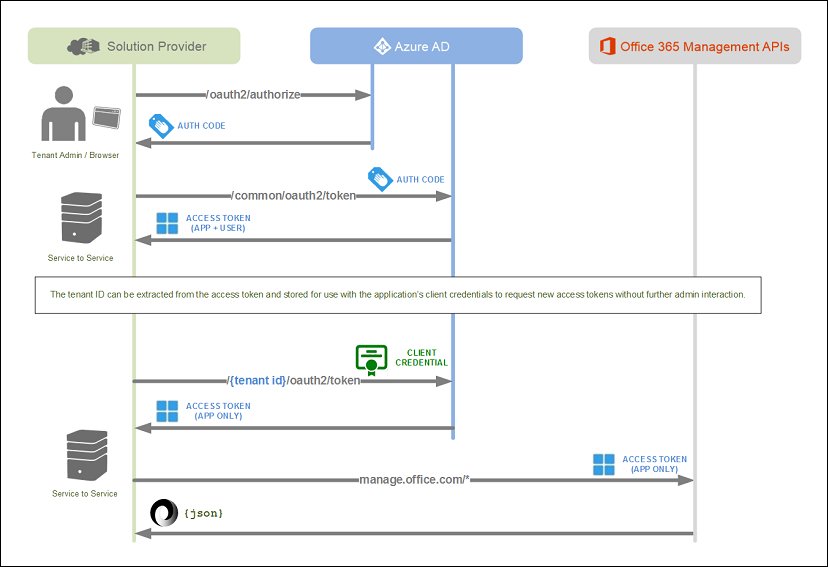
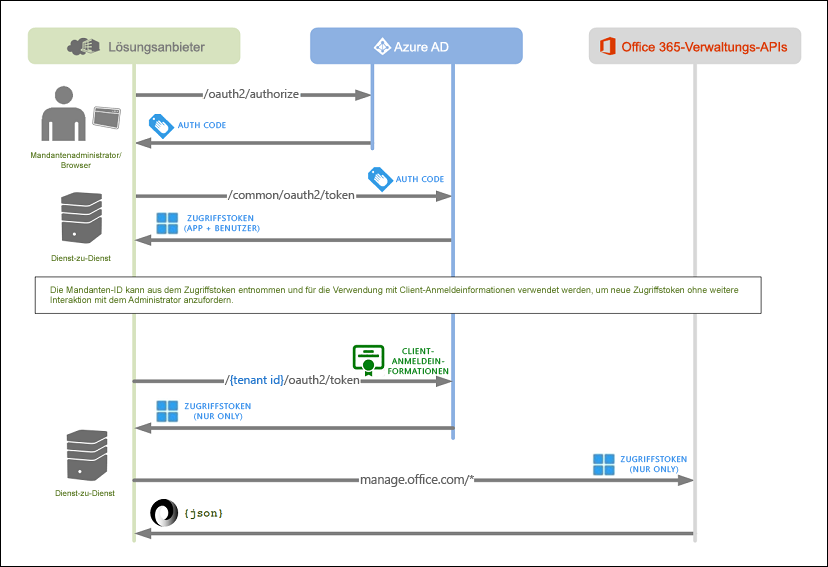
commit translated contents

diff --git a/office-365-management-api/office-365-service-communications-api-reference.md b/office-365-management-api/office-365-service-communications-api-reference.md
@@ -6,12 +6,12 @@ ms.ContentId: d0b9341a-b205-5442-1c20-8fb56407351d
 ms.topic: reference (API)
 ms.date: ''
 localization_priority: Priority
-ms.openlocfilehash: 6b42efe72931875592c87e78aa9c9cdce11a339b
-ms.sourcegitcommit: f823233a1ab116bc83d7ca8cd8ad7c7ea59439fc
+ms.openlocfilehash: 986298b87e2583788dca9b11f288743ce5f96b60
+ms.sourcegitcommit: 784b581a699c6d0ab7939ea621d5ecbea71925ea
 ms.translationtype: HT
 ms.contentlocale: de-DE
-ms.lasthandoff: 07/15/2019
-ms.locfileid: "35688172"
+ms.lasthandoff: 07/29/2019
+ms.locfileid: "35924812"
 ---
 # <a name="office-365-service-communications-api-reference-preview"></a>Office 365-Dienstkommunikations-API – Referenz (Vorschau)
 
@@ -46,7 +46,7 @@ Alle API-Anforderungen erfordern einen HTTP-Header für die Autorisierung mit ei
 Authorization: Bearer {OAuth2 token}
 ```
 
-**Anforderungsheader**
+### <a name="request-headers"></a>Anforderungsheader
 
 Dies sind die unterstützten Anforderungsheader für alle Office 365-Dienstkommunikations-API-Operationen.
 
@@ -58,7 +58,7 @@ Dies sind die unterstützten Anforderungsheader für alle Office 365-Dienstkommu
 
 <br/>
 
-**Antwortheader**
+### <a name="response-headers"></a>Antwortheader
 
 Dies sind die Antwortheader für alle Office 365-Dienstkommunikations-API-Operationen:
 
@@ -95,7 +95,7 @@ Gibt die Liste der abonnierten Dienste zurück.
 |**Response**|Liste der „Service“-Entitäten|„Service"-Entität enthält „Id“ (Zeichenfolge), „DisplayName“ (Zeichenfolge) und „FeatureNames“ (Liste mit Zeichenfolgen).|
 ||||
 
-#### <a name="sample-request"></a>Beispielanfrage
+### <a name="sample-request"></a>Beispielanfrage
 
 ```json
 GET https://manage.office.com/api/v1.0/contoso.com/ServiceComms/Services 
@@ -103,7 +103,7 @@ Authorization: Bearer {AAD_Bearer_JWT_Token}
 
 ```
 
-#### <a name="sample-response"></a>Beispielantwort
+### <a name="sample-response"></a>Beispielantwort
 
 ```json
 {
@@ -145,7 +145,9 @@ Authorization: Bearer {AAD_Bearer_JWT_Token}
 Gibt den Status des Diensts während der vorherigen 24 Stunden zurück.
 
 > [!NOTE] 
-> Die Dienstantwort enthält den Status und alle Vorkommnisse innerhalb der letzten 24 Stunden. Der zurückgegebene StatusDate- oder StatusTime-Wert liegt genau 24 Stunden in der Vergangenheit, sofern kein aktuellerer Status verfügbar ist. Falls ein Dienst innerhalb der letzten 24 Stunden eine Statusaktualisierung erhalten hat, wird stattdessen der Zeitpunkt des neuesten Updates zurückgegeben.
+> Die Dienstantwort enthält den Status und alle Vorkommnisse innerhalb der letzten 24 Stunden. Der zurückgegebene StatusDate- oder StatusTime-Wert liegt genau 24 Stunden in der Vergangenheit. Wenn Sie die letzte Aktualisierung für einen bestimmten Incident abrufen möchten, verwenden Sie die Funktion zum Abrufen von Nachrichten, und lesen Sie den LastUpdatedTime-Wert aus dem Antwortdatensatz, der ihrer Incident-ID entspricht. <br/>
+
+<br/>
 
 ||Dienst|Beschreibung|
 |:-----|:-----|:-----|
@@ -155,14 +157,14 @@ Gibt den Status des Diensts während der vorherigen 24 Stunden zurück.
 |**Response**|Liste der „WorkloadStatus“-Entitäten.|„WorkloadStatus“-Entität enthält „Id“ (Zeichenfolge), „Workload“ (Zeichenfolge), „StatusTime“ (DateTimeOffset), „WorkloadDisplayName“ (Zeichenfolge), „Status“ (Zeichenfolge), „IncidentIds“ (Liste mit Zeichenfolgen) und „FeatureGroupStatusCollection“ (Liste mit „FeatureStatus“).<br/><br/>„FeatureStatus“-Entität enthält „Feature“ (Zeichenfolge), „FeatureGroupDisplayName“ (Zeichenfolge) und „FeatureStatus“ (Zeichenfolge).|
 ||||
 
-#### <a name="sample-request"></a>Beispielanfrage
+### <a name="sample-request"></a>Beispielanfrage
 
 ```json
 GET https://manage.office.com/api/v1.0/contoso.com/ServiceComms/CurrentStatus
 Authorization: Bearer {AAD_Bearer_JWT_Token}
 ```
 
-#### <a name="sample-response"></a>Beispielantwort
+### <a name="sample-response"></a>Beispielantwort
 
 ```json
 {
@@ -265,22 +267,23 @@ Authorization: Bearer {AAD_Bearer_JWT_Token}
     ]
 }
 ```
-#### <a name="status-definitions"></a>Statusdefinitionen
 
-|**Status**|**Definition**|
-|:-----|:-----|
-|**Wird untersucht** | Uns ist ein potenzielles Problem bekannt, und wir sammeln weitere Informationen dazu, was vor sich geht und welche Auswirkungen es hat. |
-|**ServiceDegradation** | Wir haben bestätigt, dass ein Problem vorliegt, das eine Auswirkung auf die Verwendung eines Diensts oder Features haben kann. Dieser Status wird möglicherweise angezeigt, wenn ein Dienst langsamer als gewöhnlich ausgeführt wird, zeitweilige Unterbrechungen auftreten oder ein Feature nicht funktioniert. |
-|**ServiceInterruption** | Dieser Status wird angezeigt, wenn wir feststellen, dass sich ein Problem auf den Zugriff der Benutzer auf den Dienst auswirkt. In diesem Fall ist das Problem schwerwiegend und kann konsistent reproduziert werden. |
-|**RestoringService** | Die Ursache des Problems wurde erkannt, wir wissen, welche Behebungsmaßnahme zu ergreifen ist, und sind dabei, den Dienst wieder in einen fehlerfreien Zustand zu versetzen. |
-|**ExtendedRecovery** | Dieser Status gibt an, dass eine Behebungsmaßnahme durchgeführt wird, um den Dienst für die Mehrzahl der Benutzer wiederherzustellen, es dauert jedoch einige Zeit, bis alle betroffenen Systeme erreicht sind. Dieser Status wird möglicherweise auch angezeigt, wenn wir eine temporäre Korrektur vorgenommen haben, um die Auswirkungen zu verringern, während wir an der Bereitstellung einer dauerhaften Lösung arbeiten. |
-|**InvestigationSuspended** | Dieser Status wird angezeigt, wenn unsere detaillierte Untersuchung eines potenziellen Problems dazu führt, dass Kunden um Angabe zusätzlicher Informationen für eine weitere Untersuchung gebeten werden. Wenn Ihre Unterstützung erforderlich ist, informieren wir Sie, welche Daten oder Protokolle wir benötigen. |
-|**ServiceRestored** | Wir haben bestätigt, dass durch die Behebungsmaßnahme das zugrunde liegende Problem gelöst und der Dienst wieder in einen fehlerfreien Zustand versetzt wurde. Informationen zur Fehlerursache finden Sie unter den Problemdetails. |
-|**PostIncidentReportPublished** | Wir haben für ein bestimmtes Problem einen Beitrag veröffentlicht, der Informationen zu den Ursachen sowie nächste Schritte umfasst, um sicherzustellen, dass ein ähnliches Problem nicht wieder auftritt. |
-|||
+### <a name="status-definitions"></a>Statusdefinitionen
 
-> [!NOTE] 
-> Weitere Informationen zum Thema Office 365-Dienststatus finden Sie unter [Überprüfen des Office 365-Dienststatus](https://docs.microsoft.com/office365/enterprise/view-service-health).
+Die Statusdefinitionen umfassen die folgenden Werte: 
+
+- Wird untersucht
+- ServiceDegradation
+- ServiceInterruption 
+- RestoringService
+- ExtendedRecovery
+- ServiceRestored
+- PostIncidentReportPublished 
+- VerifyingService
+- ServiceOperational
+
+Eine aktuelle Liste mit Beschreibungen dieser Statusdefinitionen finden Sie unter [Überprüfen des Office 365-Dienststatus](https://docs.microsoft.com/office365/enterprise/view-service-health#status-definitions).
+
 
 ## <a name="get-historical-status"></a>Get Historical Status
 
@@ -295,14 +298,14 @@ Gibt den Verlaufsstatus des Dienstes nach Tag über einen bestimmten Zeitraum zu
 |**Response**|Liste der „WorkloadStatus“-Entitäten.|„WorkloadStatus“-Entität enthält „Id“ (Zeichenfolge), „Workload“ (Zeichenfolge), „StatusTime“ (DateTimeOffset), „WorkloadDisplayName“ (Zeichenfolge), „Status“ (Zeichenfolge), „IncidentIds“ (Liste mit Zeichenfolgen) und „FeatureGroupStatusCollection“ (Liste mit „FeatureStatus“).<br/><br/>„FeatureStatus“-Entität enthält „Feature“ (Zeichenfolge), „FeatureGroupDisplayName“ (Zeichenfolge) und „FeatureStatus“ (Zeichenfolge).|
 ||||
 
-#### <a name="sample-request"></a>Beispielanfrage
+### <a name="sample-request"></a>Beispielanfrage
 
 ```json
 GET https://manage.office.com/api/v1.0/contoso.com/ServiceComms/HistoricalStatus
 Authorization: Bearer {AAD_Bearer_JWT_Token}
 ```
 
-#### <a name="sample-response"></a>Beispielantwort
+### <a name="sample-response"></a>Beispielantwort
 
 ```json
 {
@@ -383,7 +386,6 @@ Authorization: Bearer {AAD_Bearer_JWT_Token}
 }
 ```
 
-
 ## <a name="get-messages"></a>Get Messages
 
 Gibt Nachrichten über den Dienst über einen bestimmten Zeitraum zurück. Verwenden Sie den Typfilter zum Filtern nach Nachrichten des Typs „Dienstincident“, „Geplante Wartung“ oder „Nachrichtencenter“.
@@ -402,14 +404,14 @@ Gibt Nachrichten über den Dienst über einen bestimmten Zeitraum zurück. Verwe
 |**Response**|Liste der „Message“-Entitäten.|Die „Message“-Entität enthält „Id“ (Zeichenfolge), „StartTime“ (DateTimeOffset), „EndTime“ (DateTimeOffset), „Status“ (Zeichenfolge), "Messages" (Liste mit „MessageHistory“-Entität), „LastUpdatedTime“ (DateTimeOffset), „Workload“ (String), „WorkloadDisplayName“ (String), „Feature“ (String), „FeatureDisplayName“ (String), „MessageType“ (Enum, Standard: alle).<br/><br/>„MessageHistory“-Entität enthält „PublishedTime“ (DateTimeOffset), „MessageText“ (Zeichenfolge).|
 ||||
 
-#### <a name="sample-request"></a>Beispielanfrage
+### <a name="sample-request"></a>Beispielanfrage
 
 ```json
 GET https://manage.office.com/api/v1.0/contoso.com/ServiceComms/Messages
 Authorization: Bearer {AAD_Bearer_JWT_Token}
 ```
 
-#### <a name="sample-response"></a>Beispielantwort
+### <a name="sample-response"></a>Beispielantwort
 
 ```json
 {
@@ -476,7 +478,6 @@ Wenn der Dienst einen Fehler feststellt, meldet er den Fehlerantwortcode an den 
 
 
 ```json
-
 { 
     "error":{ 
         "code":"AF5000.  An internal server error occurred.",

diff --git a/office-365-management-api/troubleshooting-the-office-365-management-activity-api.md b/office-365-management-api/troubleshooting-the-office-365-management-activity-api.md
@@ -6,12 +6,12 @@ ms.ContentId: 50822603-a1ec-a754-e7dc-67afe36bb1b0
 ms.topic: reference (API)
 ms.date: 09/05/2018
 localization_priority: Priority
-ms.openlocfilehash: ed84984dc3009d03e0bb7cacba16eafb687c93e0
-ms.sourcegitcommit: 5b1eaeb7f262b7b9f7ab30ccb9f10878814153ac
+ms.openlocfilehash: 35d90859056225a5ebcf547d88c05640699c5295
+ms.sourcegitcommit: 784b581a699c6d0ab7939ea621d5ecbea71925ea
 ms.translationtype: HT
 ms.contentlocale: de-DE
-ms.lasthandoff: 04/23/2019
-ms.locfileid: "32223952"
+ms.lasthandoff: 07/29/2019
+ms.locfileid: "35924819"
 ---
 # <a name="troubleshooting-the-office-365-management-activity-api"></a>Problembehandlung bei der Office 365-Verwaltungsaktivitäts-API
 
@@ -25,6 +25,10 @@ Die Verwaltungsaktivitäts-API sollte nicht mit der Office 365-Dienstkommunikati
 Obwohl sie relativ wenige Operationen und eine einfache REST-Schnittstelle aufweist, ist die Verwendung der Verwaltungsaktivitäts-API und der genaue Abruf der Daten oft unklar.  Jeder, der die Verwaltungsaktivitäts-API verwendet, sollte wissen, dass es keine Abfrage nach Ereignisspezifika gibt, wie Datum des Ereignisses, von welcher Websitesammlung ein Ereignis ausgelöst wurde oder Ereignistyp.  Stattdessen erstellen Sie Abonnements für spezielle Arbeitslasten (beispielsweise SharePoint oder Azure AD), und jedes Abonnement ist mandantenspezifisch.
 
 Dieser Artikel enthält eine Zusammenfassung der am häufigsten gestellten Fragen, die der Microsoft-Support zu dieser API erhält.  Wir zeigen eine Auswahl einfacher PowerShell-Skripts, mit denen Sie die gängigsten Fragen von Kunden beantworten oder eine benutzerdefinierte Lösung durch Demonstration der wichtigsten Operationen implementieren können.  Nicht alle Operationen sind in diesem Artikel beschrieben, aber sie sind alle unter [Office 365-Verwaltungsaktivitäts-API – Referenz](office-365-management-activity-api-reference.md) aufgelistet.
+
+## <a name="enabling-unified-audit-logging-in-office-365"></a>Aktivieren der einheitliche Überwachungsprotokollierung in Office 365
+
+Wenn Sie gerade eine App eingerichtet haben, die versucht, die Verwaltungsaktivitäts-API zu verwenden, und dies nicht funktioniert, stellen Sie sicher, dass Sie die einheitliche Überwachungsprotokollierung für Ihre Office 365-Organisation aktiviert haben. Dazu aktivieren Sie das Office 365-Überwachungsprotokoll. Weitere Anweisungen finden Sie unter [Aktivieren oder Deaktivieren der Office 365-Überwachungsprotokollsuche](https://docs.microsoft.com/office365/securitycompliance/turn-audit-log-search-on-or-off).
 
 ## <a name="questions-about-third-party-tools-and-clients"></a>Fragen zu Drittanbietertools und -clients
 

diff --git a/office-365-management-api/office-365-management-activity-api-reference.md b/office-365-management-api/office-365-management-activity-api-reference.md
@@ -6,12 +6,12 @@ ms.ContentId: 52749845-37f8-6076-7ea5-49d9a4055445
 ms.topic: reference (API)
 ms.date: 01/10/2018
 localization_priority: Priority
-ms.openlocfilehash: 727d4e0d58e11887c15188b62d7642be90c1ebc3
-ms.sourcegitcommit: efd3dcdb3d190ca7b0f22a671867f0aede5d46c2
+ms.openlocfilehash: d6cdef5f0445ef0fa551be3080d4ce28595a1e9f
+ms.sourcegitcommit: 784b581a699c6d0ab7939ea621d5ecbea71925ea
 ms.translationtype: HT
 ms.contentlocale: de-DE
-ms.lasthandoff: 06/25/2019
-ms.locfileid: "35226979"
+ms.lasthandoff: 07/29/2019
+ms.locfileid: "35924826"
 ---
 # <a name="office-365-management-activity-api-reference"></a>Office 365-Verwaltungsaktivitäts-API – Referenz
 
@@ -21,8 +21,10 @@ Sie können die Aktionen und Ereignisse aus den Office 365- und Microsoft Azure 
 
 Die Office 365-Verwaltungsaktivitäts-API ist ein REST-Webdienst, mit dem Sie Lösungen in einer beliebigen Sprache und mit jeder Hosting-Umgebung, die HTTPS- und X.509-Zertifikate unterstützt, entwickeln können. Die API basiert auf Azure AD und dem OAuth2-Protokoll für Authentifizierung und Autorisierung. Um von Ihrer Anwendung aus auf die API zugreifen zu können, müssen Sie diese zuerst in Azure AD registrieren und dann mit den entsprechenden Berechtigungen konfigurieren. Dadurch kann die Anwendung OAuth2-Zugriffstoken anfordern, die sie zum Aufrufen der API benötigt. Weitere Informationen finden Sie unter [Erste Schritte mit den Office 365-Verwaltungs-APIs](get-started-with-office-365-management-apis.md).
 
-> [!NOTE] 
-> Weitere Informationen über das Schema der Daten, die von der Office 365-Verwaltungsaktivitäts-API zurückgegeben werden, finden Sie unter [Office 365-Verwaltungsaktivitäts-API-Schema](office-365-management-activity-api-schema.md).
+Weitere Informationen über die Daten, die von der Office 365-Verwaltungsaktivitäts-API zurückgegeben werden, finden Sie unter [Office 365-Verwaltungsaktivitäts-API-Schema](office-365-management-activity-api-schema.md).
+
+> [!IMPORTANT]
+> Bevor Sie über die Office 365-Verwaltungsaktivitäts-API auf Daten zugreifen können, müssen Sie die einheitliche Überwachungsprotokollierung für Ihre Office 365-Organisation aktivieren. Dazu aktivieren Sie das Office 365-Überwachungsprotokoll. Weitere Anweisungen finden Sie unter [Aktivieren oder Deaktivieren der Office 365-Überwachungsprotokollsuche](https://docs.microsoft.com/office365/securitycompliance/turn-audit-log-search-on-or-off).
 
 
 ## <a name="working-with-the-office-365-management-activity-api"></a>Verwenden der Office 365-Verwaltungsaktivitäts-API
